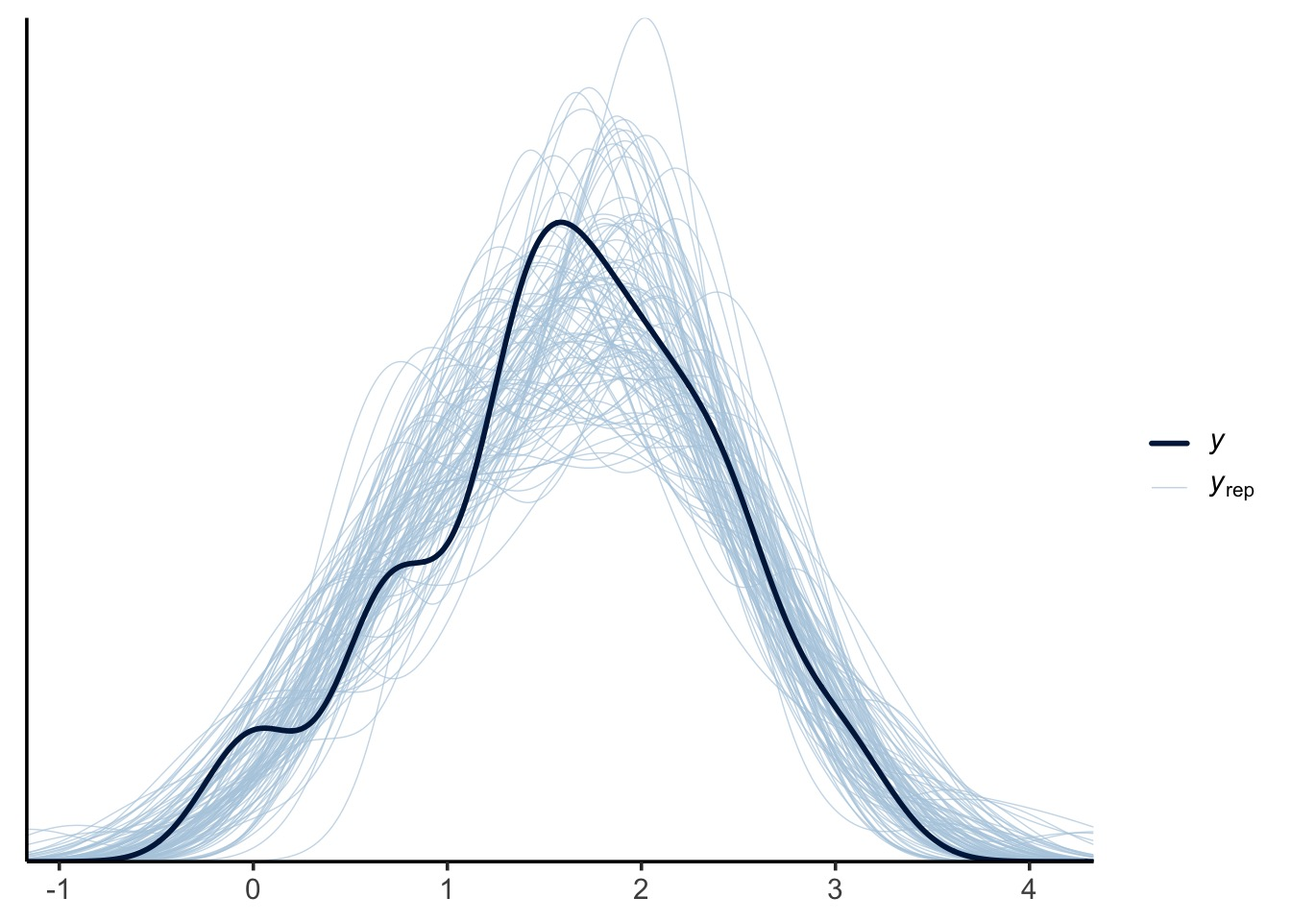
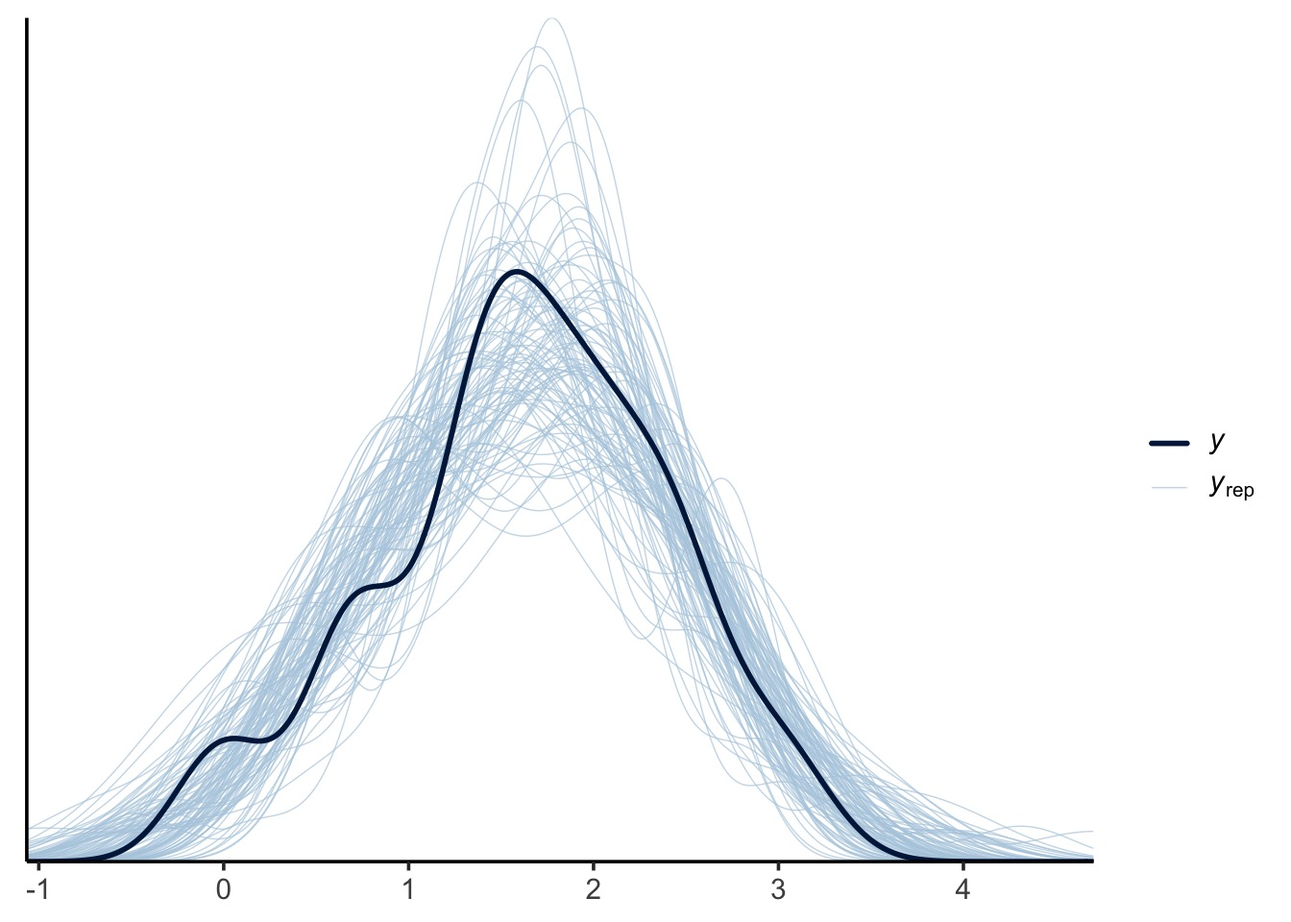
update rethinking alternatives with some inla priors

Changed region(s): [[0.0, 0.0938, 0.8438, 0.9688], [0.4062, 0.0625, 0.4375, 0.0938]]

diff --git a/lab/alt_to_rethinking.html b/lab/alt_to_rethinking.html
@@ -96,6 +96,7 @@ pre > code.sourceCode > span > a:first-child::before { text-decoration: underlin
   <li><a href="#comparing-inla-and-rethinking-fits" id="toc-comparing-inla-and-rethinking-fits" class="nav-link" data-scroll-target="#comparing-inla-and-rethinking-fits">6.2 Comparing inla and rethinking fits</a></li>
   </ul></li>
   <li><a href="#tmbstan" id="toc-tmbstan" class="nav-link" data-scroll-target="#tmbstan">7. tmbstan</a></li>
+  <li><a href="#thanks" id="toc-thanks" class="nav-link" data-scroll-target="#thanks">Thanks!</a></li>
   </ul>
 </nav>
 </div>
@@ -243,13 +244,13 @@ pre > code.sourceCode > span > a:first-child::before { text-decoration: underlin
 <span id="cb8-2"><a href="#cb8-2" aria-hidden="true" tabindex="-1"></a>                        <span class="at">pars =</span> <span class="fu">c</span>(<span class="st">"a"</span>, <span class="st">"b"</span>, <span class="st">"Rho[2,1]"</span>, <span class="st">"sigma"</span>, <span class="st">"sigma_beach"</span>))</span>
 <span id="cb8-3"><a href="#cb8-3" aria-hidden="true" tabindex="-1"></a>rethink_coefs</span></code><button title="Copy to Clipboard" class="code-copy-button"><i class="bi"></i></button></pre></div>
 <div class="cell-output cell-output-stdout">
-<pre><code>                      mean         sd        5.5%      94.5%     rhat  ess_bulk
-a               1.84586597 0.16336447  1.58470225  2.1013168 1.014808 301.22237
-b              -0.53754385 0.11378226 -0.71007402 -0.3763989 1.015616 349.88723
-Rho[2,1]        0.01973319 0.41465703 -0.62702861  0.6897833 1.002462 476.65837
-sigma           0.36666623 0.05709385  0.28180081  0.4612161 1.002717 564.27630
-sigma_beach[1]  0.45191866 0.15151914  0.26101168  0.7128389 1.001198 452.71827
-sigma_beach[2]  0.23420553 0.14333865  0.03579547  0.4727332 1.044450  77.01396</code></pre>
+<pre><code>                      mean         sd        5.5%      94.5%     rhat ess_bulk
+a               1.85328132 0.16581035  1.59898895  2.1140389 1.004576 347.9711
+b              -0.52134358 0.10444569 -0.68694787 -0.3603289 1.000133 654.6056
+Rho[2,1]        0.02585529 0.45105629 -0.69813861  0.7740703 1.002170 440.2373
+sigma           0.36438927 0.05626415  0.28474234  0.4618096 1.000797 405.1865
+sigma_beach[1]  0.45831339 0.14240046  0.27002523  0.7226320 1.002689 686.5553
+sigma_beach[2]  0.23656693 0.13037749  0.05525915  0.4588028 1.004756 203.5294</code></pre>
 </div>
 </div>
 </section>
@@ -460,24 +461,24 @@ generated quantities {
 <div class="cell">
 <div class="sourceCode cell-code" id="cb22"><pre class="sourceCode r code-with-copy"><code class="sourceCode r"><span id="cb22-1"><a href="#cb22-1" aria-hidden="true" tabindex="-1"></a>rethink_coefs</span></code><button title="Copy to Clipboard" class="code-copy-button"><i class="bi"></i></button></pre></div>
 <div class="cell-output cell-output-stdout">
-<pre><code>                      mean         sd        5.5%      94.5%     rhat  ess_bulk
-a               1.84586597 0.16336447  1.58470225  2.1013168 1.014808 301.22237
-b              -0.53754385 0.11378226 -0.71007402 -0.3763989 1.015616 349.88723
-Rho[2,1]        0.01973319 0.41465703 -0.62702861  0.6897833 1.002462 476.65837
-sigma           0.36666623 0.05709385  0.28180081  0.4612161 1.002717 564.27630
-sigma_beach[1]  0.45191866 0.15151914  0.26101168  0.7128389 1.001198 452.71827
-sigma_beach[2]  0.23420553 0.14333865  0.03579547  0.4727332 1.044450  77.01396</code></pre>
+<pre><code>                      mean         sd        5.5%      94.5%     rhat ess_bulk
+a               1.85328132 0.16581035  1.59898895  2.1140389 1.004576 347.9711
+b              -0.52134358 0.10444569 -0.68694787 -0.3603289 1.000133 654.6056
+Rho[2,1]        0.02585529 0.45105629 -0.69813861  0.7740703 1.002170 440.2373
+sigma           0.36438927 0.05626415  0.28474234  0.4618096 1.000797 405.1865
+sigma_beach[1]  0.45831339 0.14240046  0.27002523  0.7226320 1.002689 686.5553
+sigma_beach[2]  0.23656693 0.13037749  0.05525915  0.4588028 1.004756 203.5294</code></pre>
 </div>
 <div class="sourceCode cell-code" id="cb24"><pre class="sourceCode r code-with-copy"><code class="sourceCode r"><span id="cb24-1"><a href="#cb24-1" aria-hidden="true" tabindex="-1"></a>rikz_stan<span class="sc">$</span><span class="fu">summary</span>(<span class="at">variables =</span> <span class="fu">c</span>(<span class="st">"a"</span>, <span class="st">"b"</span>, <span class="st">"sigma"</span>, <span class="st">"sigma_beach"</span>))</span></code><button title="Copy to Clipboard" class="code-copy-button"><i class="bi"></i></button></pre></div>
 <div class="cell-output cell-output-stdout">
 <pre><code># A tibble: 5 × 10
   variable      mean median     sd    mad      q5    q95  rhat ess_bulk ess_tail
   &lt;chr&gt;        &lt;dbl&gt;  &lt;dbl&gt;  &lt;dbl&gt;  &lt;dbl&gt;   &lt;dbl&gt;  &lt;dbl&gt; &lt;dbl&gt;    &lt;dbl&gt;    &lt;dbl&gt;
-1 a            1.84   1.84  0.189  0.165   1.53    2.14   1.01     486.     578.
-2 b           -0.523 -0.519 0.117  0.0973 -0.708  -0.339  1.00     804.     800.
-3 sigma        0.366  0.360 0.0569 0.0610  0.283   0.464  1.01     405.    1353.
-4 sigma_beac…  0.467  0.435 0.154  0.125   0.271   0.763  1.00     894.    1510.
-5 sigma_beac…  0.236  0.225 0.138  0.131   0.0383  0.479  1.01     180.     138.</code></pre>
+1 a            1.85   1.85  0.165  0.155   1.59    2.13   1.01     712.     889.
+2 b           -0.522 -0.522 0.110  0.0986 -0.704  -0.349  1.01    1035.    1101.
+3 sigma        0.366  0.359 0.0585 0.0578  0.282   0.473  1.00     933.    1242.
+4 sigma_beac…  0.455  0.431 0.146  0.128   0.267   0.728  1.00    1345.    1633.
+5 sigma_beac…  0.247  0.233 0.133  0.117   0.0536  0.488  1.00     441.     396.</code></pre>
 </div>
 </div>
 <p>Maybe some rounding error here and there, but, matches. (and it should, as I modified the stan code from the stan code generated by the rethinking model.)</p>
@@ -621,25 +622,25 @@ sigma_beach[2]  0.23420553 0.14333865  0.03579547  0.4727332 1.044450  77.01396<
 <div class="sourceCode cell-code" id="cb38"><pre class="sourceCode r code-with-copy"><code class="sourceCode r"><span id="cb38-1"><a href="#cb38-1" aria-hidden="true" tabindex="-1"></a><span class="co"># compare</span></span>
 <span id="cb38-2"><a href="#cb38-2" aria-hidden="true" tabindex="-1"></a>rethink_coefs</span></code><button title="Copy to Clipboard" class="code-copy-button"><i class="bi"></i></button></pre></div>
 <div class="cell-output cell-output-stdout">
-<pre><code>                      mean         sd        5.5%      94.5%     rhat  ess_bulk
-a               1.84586597 0.16336447  1.58470225  2.1013168 1.014808 301.22237
-b              -0.53754385 0.11378226 -0.71007402 -0.3763989 1.015616 349.88723
-Rho[2,1]        0.01973319 0.41465703 -0.62702861  0.6897833 1.002462 476.65837
-sigma           0.36666623 0.05709385  0.28180081  0.4612161 1.002717 564.27630
-sigma_beach[1]  0.45191866 0.15151914  0.26101168  0.7128389 1.001198 452.71827
-sigma_beach[2]  0.23420553 0.14333865  0.03579547  0.4727332 1.044450  77.01396</code></pre>
+<pre><code>                      mean         sd        5.5%      94.5%     rhat ess_bulk
+a               1.85328132 0.16581035  1.59898895  2.1140389 1.004576 347.9711
+b              -0.52134358 0.10444569 -0.68694787 -0.3603289 1.000133 654.6056
+Rho[2,1]        0.02585529 0.45105629 -0.69813861  0.7740703 1.002170 440.2373
+sigma           0.36438927 0.05626415  0.28474234  0.4618096 1.000797 405.1865
+sigma_beach[1]  0.45831339 0.14240046  0.27002523  0.7226320 1.002689 686.5553
+sigma_beach[2]  0.23656693 0.13037749  0.05525915  0.4588028 1.004756 203.5294</code></pre>
 </div>
 <div class="sourceCode cell-code" id="cb40"><pre class="sourceCode r code-with-copy"><code class="sourceCode r"><span id="cb40-1"><a href="#cb40-1" aria-hidden="true" tabindex="-1"></a><span class="fu">tidy</span>(rikz_brms)[,<span class="sc">-</span><span class="fu">c</span>(<span class="dv">1</span><span class="sc">:</span><span class="dv">2</span>)]</span></code><button title="Copy to Clipboard" class="code-copy-button"><i class="bi"></i></button></pre></div>
 <div class="cell-output cell-output-stdout">
 <pre><code># A tibble: 6 × 6
   group    term                 estimate std.error conf.low conf.high
   &lt;chr&gt;    &lt;chr&gt;                   &lt;dbl&gt;     &lt;dbl&gt;    &lt;dbl&gt;     &lt;dbl&gt;
-1 &lt;NA&gt;     (Intercept)            1.86      0.169    1.53       2.21 
-2 &lt;NA&gt;     NAP                   -0.523     0.105   -0.730     -0.293
-3 Beach_c  sd__(Intercept)        0.454     0.144    0.231      0.790
-4 Beach_c  sd__NAP                0.235     0.134    0.0175     0.533
-5 Beach_c  cor__(Intercept).NAP   0.0144    0.434   -0.777      0.823
-6 Residual sd__Observation        0.371     0.0595   0.273      0.499</code></pre>
+1 &lt;NA&gt;     (Intercept)            1.85      0.173    1.51       2.20 
+2 &lt;NA&gt;     NAP                   -0.524     0.118   -0.760     -0.277
+3 Beach_c  sd__(Intercept)        0.455     0.153    0.230      0.818
+4 Beach_c  sd__NAP                0.234     0.140    0.0133     0.549
+5 Beach_c  cor__(Intercept).NAP   0.0250    0.456   -0.842      0.877
+6 Residual sd__Observation        0.373     0.0629   0.273      0.517</code></pre>
 </div>
 </div>
 <p>Again, rounding error.</p>
@@ -698,8 +699,8 @@ sigma_beach[2]  0.23420553 0.14333865  0.03579547  0.4727332 1.044450  77.01396<
 </section>
 <section id="inla" class="level2">
 <h2 class="anchored" data-anchor-id="inla">6. inla</h2>
-<p><a href="https://www.r-inla.org/">inla</a> is a really interesting package that rose up to work with spatial and spatiotemporal data using laplacian approximation. The key insight of Laplacian approximation is that underlying each element of a model are latent gaussian variables. Think the random effects themselves. Once we have that at the core, there are algorithmic solutions that, while not always as precise as HMC, work very well and very fast for very complex models.</p>
-<p>inla has a lot of non-standard dependencies, so you’ll need to istall it from the inla repo.</p>
+<p><a href="https://www.r-inla.org/">inla</a> is a really interesting package that rose up to work with spatial and spatiotemporal data using laplacian approximation. The key insight of Laplacian approximation is that underlying each element of a model are latent gaussian variables. Think the random effects themselves. Once we have that at the core, there are algorithmic solutions that work very well and very fast for very complex models.</p>
+<p>inla has a lot of non-standard dependencies, so you’ll need to i.stall it from the inla repo.</p>
 <div class="cell">
 <div class="sourceCode cell-code" id="cb46"><pre class="sourceCode r code-with-copy"><code class="sourceCode r"><span id="cb46-1"><a href="#cb46-1" aria-hidden="true" tabindex="-1"></a><span class="fu">install.packages</span>(<span class="st">"INLA"</span>,</span>
 <span id="cb46-2"><a href="#cb46-2" aria-hidden="true" tabindex="-1"></a>                 <span class="at">repos=</span><span class="fu">c</span>(<span class="fu">getOption</span>(<span class="st">"repos"</span>),</span>
@@ -725,7 +726,7 @@ sigma_beach[2]  0.23420553 0.14333865  0.03579547  0.4727332 1.044450  77.01396<
 </ol>
 <p>here’s what that all looks like</p>
 <div class="cell">
-<div class="sourceCode cell-code" id="cb48"><pre class="sourceCode r code-with-copy"><code class="sourceCode r"><span id="cb48-1"><a href="#cb48-1" aria-hidden="true" tabindex="-1"></a>rikz_inla <span class="ot">&lt;-</span> <span class="fu">inla</span>(log_richness <span class="sc">~</span> NAP <span class="sc">+</span></span>
+<div class="sourceCode cell-code" id="cb48"><pre class="sourceCode r code-with-copy"><code class="sourceCode r"><span id="cb48-1"><a href="#cb48-1" aria-hidden="true" tabindex="-1"></a>rikz_inla_noprior <span class="ot">&lt;-</span> <span class="fu">inla</span>(log_richness <span class="sc">~</span> NAP <span class="sc">+</span></span>
 <span id="cb48-2"><a href="#cb48-2" aria-hidden="true" tabindex="-1"></a>                      </span>
 <span id="cb48-3"><a href="#cb48-3" aria-hidden="true" tabindex="-1"></a>                    <span class="fu">f</span>(Beach, </span>
 <span id="cb48-4"><a href="#cb48-4" aria-hidden="true" tabindex="-1"></a>                      <span class="at">model=</span><span class="st">"iid2d"</span>, </span>
@@ -738,52 +739,101 @@ sigma_beach[2]  0.23420553 0.14333865  0.03579547  0.4727332 1.044450  77.01396<
 </div>
 <section id="priors-in-inla" class="level3">
 <h3 class="anchored" data-anchor-id="priors-in-inla">6.1 Priors in inla</h3>
-<p>Priors in inla are a hair harder to implement. Each <code>f()</code> has a <code>hyper</code> argument where you can specify priors. For fixed effects, we need to wrap them in a <code>f()</code> function where <code>model = "linear"</code>. Right now…. they don’t seem to take hyperparameters? See <code>inla.models()$latent$linear$hyper</code> or <code>?inla.models</code></p>
-<p>Anyone have any advice on linear terms, I’d love to hear it!</p>
-<p>For the random effects, it’s a bit more straightforard. They take priors for their error terms - theta. But - it’s not a prior on a sd. It’s a prior in a precision, or <code>prec</code>, term. Precision = 1/variance. So, you’ll have to wrap your brain around it a bit more. And so do I, in order to translate, say, an exponential prior on a standard deviation to a precision or log precision. So I’m going to walk away until someone smarter weighs in.</p>
+<p>Priors in inla are a hair wilder to implement as you don’t implement all of the priors in one place. First, for the fixed effects, we can use <code>control.fixed</code> and specify a list of items. See <code>?control.fixed</code>. We can supply a list of means and precisions for each element. The intercept is supplied separatetely. In this case, for precision, we’d use <code>1/(2^2)</code> as our sd from previous priors is 2.</p>
+<div class="cell">
+<div class="sourceCode cell-code" id="cb49"><pre class="sourceCode r code-with-copy"><code class="sourceCode r"><span id="cb49-1"><a href="#cb49-1" aria-hidden="true" tabindex="-1"></a>inla_fixed_priors <span class="ot">&lt;-</span> <span class="fu">list</span>(</span>
+<span id="cb49-2"><a href="#cb49-2" aria-hidden="true" tabindex="-1"></a>  <span class="at">mean =</span> <span class="fu">list</span>(<span class="at">NAP =</span> <span class="dv">0</span>),</span>
+<span id="cb49-3"><a href="#cb49-3" aria-hidden="true" tabindex="-1"></a>  <span class="at">prec =</span> <span class="fu">list</span>(<span class="at">NAP =</span> <span class="dv">1</span><span class="sc">/</span>(<span class="dv">2</span><span class="sc">^</span><span class="dv">2</span>)),</span>
+<span id="cb49-4"><a href="#cb49-4" aria-hidden="true" tabindex="-1"></a>  <span class="at">mean.intercept =</span> <span class="dv">2</span>,</span>
+<span id="cb49-5"><a href="#cb49-5" aria-hidden="true" tabindex="-1"></a>  <span class="at">prec.intercept =</span> <span class="dv">1</span><span class="sc">/</span>(<span class="dv">2</span><span class="sc">^</span><span class="dv">2</span>)</span>
+<span id="cb49-6"><a href="#cb49-6" aria-hidden="true" tabindex="-1"></a>)</span></code><button title="Copy to Clipboard" class="code-copy-button"><i class="bi"></i></button></pre></div>
+</div>
+<p>For error terms, we use the <code>control.family</code> argument. Here we need to specify <code>hyper</code> as an element of the list, as that’s where our prior lives. We’re using precisions here instead of standard deviations. We can see what we’re working with using</p>
+<div class="cell">
+<div class="sourceCode cell-code" id="cb50"><pre class="sourceCode r code-with-copy"><code class="sourceCode r"><span id="cb50-1"><a href="#cb50-1" aria-hidden="true" tabindex="-1"></a><span class="fu">inla.models</span>()<span class="sc">$</span>likelihood<span class="sc">$</span>gaussian<span class="sc">$</span>hyper<span class="sc">$</span>theta1<span class="sc">$</span>short.name</span></code><button title="Copy to Clipboard" class="code-copy-button"><i class="bi"></i></button></pre></div>
+<div class="cell-output cell-output-stdout">
+<pre><code>[1] "prec"
+attr(,"inla.read.only")
+[1] FALSE</code></pre>
+</div>
+<div class="sourceCode cell-code" id="cb52"><pre class="sourceCode r code-with-copy"><code class="sourceCode r"><span id="cb52-1"><a href="#cb52-1" aria-hidden="true" tabindex="-1"></a><span class="fu">inla.models</span>()<span class="sc">$</span>likelihood<span class="sc">$</span>gaussian<span class="sc">$</span>hyper<span class="sc">$</span>theta1<span class="sc">$</span>prior</span></code><button title="Copy to Clipboard" class="code-copy-button"><i class="bi"></i></button></pre></div>
+<div class="cell-output cell-output-stdout">
+<pre><code>[1] "loggamma"
+attr(,"inla.read.only")
+[1] FALSE</code></pre>
+</div>
+<div class="sourceCode cell-code" id="cb54"><pre class="sourceCode r code-with-copy"><code class="sourceCode r"><span id="cb54-1"><a href="#cb54-1" aria-hidden="true" tabindex="-1"></a><span class="fu">inla.models</span>()<span class="sc">$</span>likelihood<span class="sc">$</span>gaussian<span class="sc">$</span>hyper<span class="sc">$</span>theta1<span class="sc">$</span>param</span></code><button title="Copy to Clipboard" class="code-copy-button"><i class="bi"></i></button></pre></div>
+<div class="cell-output cell-output-stdout">
+<pre><code>[1] 1e+00 5e-05
+attr(,"inla.read.only")
+[1] FALSE</code></pre>
+</div>
+</div>
+<p>For the random effects, we supply priors for their error terms - theta. For the moment, we can use the same prior.</p>
+<div class="cell">
+<div class="sourceCode cell-code" id="cb56"><pre class="sourceCode r code-with-copy"><code class="sourceCode r"><span id="cb56-1"><a href="#cb56-1" aria-hidden="true" tabindex="-1"></a>prec.prior <span class="ot">&lt;-</span> <span class="fu">list</span>(<span class="at">prec =</span> <span class="fu">list</span>(<span class="at">prior =</span> <span class="st">"loggamma"</span>, </span>
+<span id="cb56-2"><a href="#cb56-2" aria-hidden="true" tabindex="-1"></a>                               <span class="at">param =</span> <span class="fu">c</span>(<span class="fl">0.01</span>, <span class="fl">5e-05</span>)))</span></code><button title="Copy to Clipboard" class="code-copy-button"><i class="bi"></i></button></pre></div>
+</div>
+<p>For the moment, though, as I have no idea what I’m doing with priors for precision and wanting them to match up with the <code>dexp(2)</code>, I’m not going to set this. Smarter people than me can weight in on the corresponding inverse precision prior here….</p>
+<p>We can implement the priors in the model like so:</p>
+<div class="cell">
+<div class="sourceCode cell-code" id="cb57"><pre class="sourceCode r code-with-copy"><code class="sourceCode r"><span id="cb57-1"><a href="#cb57-1" aria-hidden="true" tabindex="-1"></a>rikz_inla <span class="ot">&lt;-</span> <span class="fu">inla</span>(log_richness <span class="sc">~</span> NAP <span class="sc">+</span></span>
+<span id="cb57-2"><a href="#cb57-2" aria-hidden="true" tabindex="-1"></a>                      </span>
+<span id="cb57-3"><a href="#cb57-3" aria-hidden="true" tabindex="-1"></a>                    <span class="fu">f</span>(Beach, </span>
+<span id="cb57-4"><a href="#cb57-4" aria-hidden="true" tabindex="-1"></a>                      <span class="at">model=</span><span class="st">"iid2d"</span>, </span>
+<span id="cb57-5"><a href="#cb57-5" aria-hidden="true" tabindex="-1"></a>                      <span class="at">n =</span> <span class="dv">2</span><span class="sc">*</span><span class="fu">max</span>(d<span class="sc">$</span>Beach))<span class="sc">+</span></span>
+<span id="cb57-6"><a href="#cb57-6" aria-hidden="true" tabindex="-1"></a>                      </span>
+<span id="cb57-7"><a href="#cb57-7" aria-hidden="true" tabindex="-1"></a>                    <span class="sc">+</span> <span class="fu">f</span>(Beach1, NAP, </span>
+<span id="cb57-8"><a href="#cb57-8" aria-hidden="true" tabindex="-1"></a>                        <span class="at">copy =</span> <span class="st">"Beach"</span>), </span>
+<span id="cb57-9"><a href="#cb57-9" aria-hidden="true" tabindex="-1"></a>                  </span>
+<span id="cb57-10"><a href="#cb57-10" aria-hidden="true" tabindex="-1"></a>                  <span class="at">control.fixed =</span> inla_fixed_priors,</span>
+<span id="cb57-11"><a href="#cb57-11" aria-hidden="true" tabindex="-1"></a>                    </span>
+<span id="cb57-12"><a href="#cb57-12" aria-hidden="true" tabindex="-1"></a>                  <span class="at">data =</span> d <span class="sc">|&gt;</span> <span class="fu">mutate</span>(<span class="at">Beach1 =</span> Beach <span class="sc">+</span> <span class="fu">max</span>(Beach)))</span></code><button title="Copy to Clipboard" class="code-copy-button"><i class="bi"></i></button></pre></div>
+</div>
 </section>
 <section id="comparing-inla-and-rethinking-fits" class="level3">
 <h3 class="anchored" data-anchor-id="comparing-inla-and-rethinking-fits">6.2 Comparing inla and rethinking fits</h3>
-<p>As you can see, I’m not deep in the inla world, so don’t have a lot of experience with the diagnostics we need. BUT - we can look compare fits. Even without priors for the moment.</p>
+<p>As you can see, I’m not deep in the inla world, so don’t have a lot of experience with the diagnostics we need. I really need to look at <a href="https://inlatools.netlify.app/">inlatools</a>.</p>
+<p>BUT - we can compare coefficients.</p>
 <p>First, run this function which will make better output.</p>
 <div class="cell">
-<div class="sourceCode cell-code" id="cb49"><pre class="sourceCode r code-with-copy"><code class="sourceCode r"><span id="cb49-1"><a href="#cb49-1" aria-hidden="true" tabindex="-1"></a>tidy.inla <span class="ot">&lt;-</span> <span class="cf">function</span>(x){</span>
-<span id="cb49-2"><a href="#cb49-2" aria-hidden="true" tabindex="-1"></a>  </span>
-<span id="cb49-3"><a href="#cb49-3" aria-hidden="true" tabindex="-1"></a>  <span class="co"># x = model_inla</span></span>
-<span id="cb49-4"><a href="#cb49-4" aria-hidden="true" tabindex="-1"></a>  term_names <span class="ot">&lt;-</span> <span class="fu">rownames</span>(x<span class="sc">$</span>summary.fixed)</span>
-<span id="cb49-5"><a href="#cb49-5" aria-hidden="true" tabindex="-1"></a>  re_term_names <span class="ot">&lt;-</span> <span class="fu">rownames</span>(x<span class="sc">$</span>summary.hyperpar)</span>
-<span id="cb49-6"><a href="#cb49-6" aria-hidden="true" tabindex="-1"></a>  </span>
-<span id="cb49-7"><a href="#cb49-7" aria-hidden="true" tabindex="-1"></a>  </span>
-<span id="cb49-8"><a href="#cb49-8" aria-hidden="true" tabindex="-1"></a>  tibble<span class="sc">::</span><span class="fu">as_tibble</span>(<span class="fu">bind_rows</span>(x<span class="sc">$</span>summary.fixed, x<span class="sc">$</span>summary.hyperpar)) <span class="sc">%&gt;%</span></span>
-<span id="cb49-9"><a href="#cb49-9" aria-hidden="true" tabindex="-1"></a>    dplyr<span class="sc">::</span><span class="fu">mutate</span>(<span class="at">terms =</span> <span class="fu">c</span>(term_names, re_term_names)) <span class="sc">%&gt;%</span></span>
-<span id="cb49-10"><a href="#cb49-10" aria-hidden="true" tabindex="-1"></a>    dplyr<span class="sc">::</span><span class="fu">select</span>(terms,</span>
-<span id="cb49-11"><a href="#cb49-11" aria-hidden="true" tabindex="-1"></a>                  dplyr<span class="sc">::</span><span class="fu">everything</span>())</span>
-<span id="cb49-12"><a href="#cb49-12" aria-hidden="true" tabindex="-1"></a>  </span>
-<span id="cb49-13"><a href="#cb49-13" aria-hidden="true" tabindex="-1"></a>}</span></code><button title="Copy to Clipboard" class="code-copy-button"><i class="bi"></i></button></pre></div>
+<div class="sourceCode cell-code" id="cb58"><pre class="sourceCode r code-with-copy"><code class="sourceCode r"><span id="cb58-1"><a href="#cb58-1" aria-hidden="true" tabindex="-1"></a>tidy.inla <span class="ot">&lt;-</span> <span class="cf">function</span>(x){</span>
+<span id="cb58-2"><a href="#cb58-2" aria-hidden="true" tabindex="-1"></a>  </span>
+<span id="cb58-3"><a href="#cb58-3" aria-hidden="true" tabindex="-1"></a>  <span class="co"># x = model_inla</span></span>
+<span id="cb58-4"><a href="#cb58-4" aria-hidden="true" tabindex="-1"></a>  term_names <span class="ot">&lt;-</span> <span class="fu">rownames</span>(x<span class="sc">$</span>summary.fixed)</span>
+<span id="cb58-5"><a href="#cb58-5" aria-hidden="true" tabindex="-1"></a>  re_term_names <span class="ot">&lt;-</span> <span class="fu">rownames</span>(x<span class="sc">$</span>summary.hyperpar)</span>
+<span id="cb58-6"><a href="#cb58-6" aria-hidden="true" tabindex="-1"></a>  </span>
+<span id="cb58-7"><a href="#cb58-7" aria-hidden="true" tabindex="-1"></a>  </span>
+<span id="cb58-8"><a href="#cb58-8" aria-hidden="true" tabindex="-1"></a>  tibble<span class="sc">::</span><span class="fu">as_tibble</span>(<span class="fu">bind_rows</span>(x<span class="sc">$</span>summary.fixed, x<span class="sc">$</span>summary.hyperpar)) <span class="sc">%&gt;%</span></span>
+<span id="cb58-9"><a href="#cb58-9" aria-hidden="true" tabindex="-1"></a>    dplyr<span class="sc">::</span><span class="fu">mutate</span>(<span class="at">terms =</span> <span class="fu">c</span>(term_names, re_term_names)) <span class="sc">%&gt;%</span></span>
+<span id="cb58-10"><a href="#cb58-10" aria-hidden="true" tabindex="-1"></a>    dplyr<span class="sc">::</span><span class="fu">select</span>(terms,</span>
+<span id="cb58-11"><a href="#cb58-11" aria-hidden="true" tabindex="-1"></a>                  dplyr<span class="sc">::</span><span class="fu">everything</span>())</span>
+<span id="cb58-12"><a href="#cb58-12" aria-hidden="true" tabindex="-1"></a>  </span>
+<span id="cb58-13"><a href="#cb58-13" aria-hidden="true" tabindex="-1"></a>}</span></code><button title="Copy to Clipboard" class="code-copy-button"><i class="bi"></i></button></pre></div>
 </div>
 <p>Then</p>
 <div class="cell">
-<div class="sourceCode cell-code" id="cb50"><pre class="sourceCode r code-with-copy"><code class="sourceCode r"><span id="cb50-1"><a href="#cb50-1" aria-hidden="true" tabindex="-1"></a>rethink_coefs</span></code><button title="Copy to Clipboard" class="code-copy-button"><i class="bi"></i></button></pre></div>
+<div class="sourceCode cell-code" id="cb59"><pre class="sourceCode r code-with-copy"><code class="sourceCode r"><span id="cb59-1"><a href="#cb59-1" aria-hidden="true" tabindex="-1"></a>rethink_coefs</span></code><button title="Copy to Clipboard" class="code-copy-button"><i class="bi"></i></button></pre></div>
 <div class="cell-output cell-output-stdout">
-<pre><code>                      mean         sd        5.5%      94.5%     rhat  ess_bulk
-a               1.84586597 0.16336447  1.58470225  2.1013168 1.014808 301.22237
-b              -0.53754385 0.11378226 -0.71007402 -0.3763989 1.015616 349.88723
-Rho[2,1]        0.01973319 0.41465703 -0.62702861  0.6897833 1.002462 476.65837
-sigma           0.36666623 0.05709385  0.28180081  0.4612161 1.002717 564.27630
-sigma_beach[1]  0.45191866 0.15151914  0.26101168  0.7128389 1.001198 452.71827
-sigma_beach[2]  0.23420553 0.14333865  0.03579547  0.4727332 1.044450  77.01396</code></pre>
+<pre><code>                      mean         sd        5.5%      94.5%     rhat ess_bulk
+a               1.85328132 0.16581035  1.59898895  2.1140389 1.004576 347.9711
+b              -0.52134358 0.10444569 -0.68694787 -0.3603289 1.000133 654.6056
+Rho[2,1]        0.02585529 0.45105629 -0.69813861  0.7740703 1.002170 440.2373
+sigma           0.36438927 0.05626415  0.28474234  0.4618096 1.000797 405.1865
+sigma_beach[1]  0.45831339 0.14240046  0.27002523  0.7226320 1.002689 686.5553
+sigma_beach[2]  0.23656693 0.13037749  0.05525915  0.4588028 1.004756 203.5294</code></pre>
 </div>
-<div class="sourceCode cell-code" id="cb52"><pre class="sourceCode r code-with-copy"><code class="sourceCode r"><span id="cb52-1"><a href="#cb52-1" aria-hidden="true" tabindex="-1"></a><span class="fu">tidy</span>(rikz_inla)</span></code><button title="Copy to Clipboard" class="code-copy-button"><i class="bi"></i></button></pre></div>
+<div class="sourceCode cell-code" id="cb61"><pre class="sourceCode r code-with-copy"><code class="sourceCode r"><span id="cb61-1"><a href="#cb61-1" aria-hidden="true" tabindex="-1"></a><span class="fu">tidy</span>(rikz_inla)</span></code><button title="Copy to Clipboard" class="code-copy-button"><i class="bi"></i></button></pre></div>
 <div class="cell-output cell-output-stdout">
 <pre><code># A tibble: 6 × 8
   terms         mean    sd `0.025quant` `0.5quant` `0.975quant`    mode      kld
   &lt;chr&gt;        &lt;dbl&gt; &lt;dbl&gt;        &lt;dbl&gt;      &lt;dbl&gt;        &lt;dbl&gt;   &lt;dbl&gt;    &lt;dbl&gt;
-1 (Intercep…  1.87   0.181        1.51      1.87          2.24   1.87    1.68e-7
-2 NAP        -0.527  0.153       -0.831    -0.526        -0.223 -0.526   1.46e-7
-3 Precision… 10.5    2.77         5.98     10.2          16.8    9.62   NA      
-4 Precision…  4.93   2.23         1.88      4.51         10.5    3.75   NA      
-5 Precision…  7.32   3.35         2.78      6.67         15.7    5.52   NA      
-6 Rho1:2 fo… -0.0493 0.303       -0.616    -0.0521        0.533 -0.0525 NA      </code></pre>
+1 (Intercep…  1.88   0.180        1.52      1.88          2.23   1.88    1.67e-7
+2 NAP        -0.524  0.152       -0.826    -0.524        -0.221 -0.524   1.47e-7
+3 Precision… 10.5    2.77         5.99     10.2          16.8    9.61   NA      
+4 Precision…  4.94   2.23         1.88      4.51         10.5    3.76   NA      
+5 Precision…  7.33   3.34         2.78      6.68         15.7    5.54   NA      
+6 Rho1:2 fo… -0.0482 0.302       -0.615    -0.0505        0.532 -0.0488 NA      </code></pre>
 </div>
 </div>
 <p>Slope and NAP not far off. To understand other terms, you can calculate sqrt(1/prec) to compare back.</p>
@@ -795,67 +845,71 @@ sigma_beach[2]  0.23420553 0.14333865  0.03579547  0.4727332 1.044450  77.01396<
 <p>What’s great about this is that at the same time, Ben Bolker has been working priors into <code>glmmTMB</code> for purposes of stability. We can put the two together, and then create a model that will run in stan using glmmTMB, if you so desire.</p>
 <p>The prior system is not well documented yet, and doesn’t seem to have an exponential? Also, instead of sd, we use <code>theta</code>. Here, let’s create priors for both our slopes and intercepts and then for our sd terms. I’m currently unclear on how to set a prior for the correlation term.</p>
 <div class="cell">
-<div class="sourceCode cell-code" id="cb54"><pre class="sourceCode r code-with-copy"><code class="sourceCode r"><span id="cb54-1"><a href="#cb54-1" aria-hidden="true" tabindex="-1"></a><span class="co"># glmmTMB and tmbstan</span></span>
-<span id="cb54-2"><a href="#cb54-2" aria-hidden="true" tabindex="-1"></a><span class="fu">library</span>(glmmTMB)</span>
-<span id="cb54-3"><a href="#cb54-3" aria-hidden="true" tabindex="-1"></a><span class="fu">library</span>(tmbstan)</span>
-<span id="cb54-4"><a href="#cb54-4" aria-hidden="true" tabindex="-1"></a></span>
-<span id="cb54-5"><a href="#cb54-5" aria-hidden="true" tabindex="-1"></a>cprior <span class="ot">&lt;-</span> <span class="fu">data.frame</span>(<span class="at">prior =</span> <span class="fu">c</span>(<span class="st">"normal(2,2)"</span>, <span class="st">"normal(0,2)"</span>),</span>
-<span id="cb54-6"><a href="#cb54-6" aria-hidden="true" tabindex="-1"></a>                     <span class="at">class =</span> <span class="fu">rep</span>(<span class="st">"beta"</span>, <span class="dv">2</span>),</span>
-<span id="cb54-7"><a href="#cb54-7" aria-hidden="true" tabindex="-1"></a>                     <span class="at">coef =</span> <span class="fu">c</span>(<span class="st">"(Intercept)"</span>, <span class="st">""</span>))</span>
-<span id="cb54-8"><a href="#cb54-8" aria-hidden="true" tabindex="-1"></a></span>
-<span id="cb54-9"><a href="#cb54-9" aria-hidden="true" tabindex="-1"></a>sprior <span class="ot">&lt;-</span> <span class="fu">data.frame</span>(<span class="at">prior =</span> <span class="fu">c</span>(<span class="st">"cauchy(0, 2)"</span>),</span>
-<span id="cb54-10"><a href="#cb54-10" aria-hidden="true" tabindex="-1"></a>                     <span class="at">class =</span> <span class="fu">c</span>(<span class="st">"theta"</span>))</span></code><button title="Copy to Clipboard" class="code-copy-button"><i class="bi"></i></button></pre></div>
+<div class="sourceCode cell-code" id="cb63"><pre class="sourceCode r code-with-copy"><code class="sourceCode r"><span id="cb63-1"><a href="#cb63-1" aria-hidden="true" tabindex="-1"></a><span class="co"># glmmTMB and tmbstan</span></span>
+<span id="cb63-2"><a href="#cb63-2" aria-hidden="true" tabindex="-1"></a><span class="fu">library</span>(glmmTMB)</span>
+<span id="cb63-3"><a href="#cb63-3" aria-hidden="true" tabindex="-1"></a><span class="fu">library</span>(tmbstan)</span>
+<span id="cb63-4"><a href="#cb63-4" aria-hidden="true" tabindex="-1"></a></span>
+<span id="cb63-5"><a href="#cb63-5" aria-hidden="true" tabindex="-1"></a>cprior <span class="ot">&lt;-</span> <span class="fu">data.frame</span>(<span class="at">prior =</span> <span class="fu">c</span>(<span class="st">"normal(2,2)"</span>, <span class="st">"normal(0,2)"</span>),</span>
+<span id="cb63-6"><a href="#cb63-6" aria-hidden="true" tabindex="-1"></a>                     <span class="at">class =</span> <span class="fu">rep</span>(<span class="st">"beta"</span>, <span class="dv">2</span>),</span>
+<span id="cb63-7"><a href="#cb63-7" aria-hidden="true" tabindex="-1"></a>                     <span class="at">coef =</span> <span class="fu">c</span>(<span class="st">"(Intercept)"</span>, <span class="st">""</span>))</span>
+<span id="cb63-8"><a href="#cb63-8" aria-hidden="true" tabindex="-1"></a></span>
+<span id="cb63-9"><a href="#cb63-9" aria-hidden="true" tabindex="-1"></a>sprior <span class="ot">&lt;-</span> <span class="fu">data.frame</span>(<span class="at">prior =</span> <span class="fu">c</span>(<span class="st">"cauchy(0, 2)"</span>),</span>
+<span id="cb63-10"><a href="#cb63-10" aria-hidden="true" tabindex="-1"></a>                     <span class="at">class =</span> <span class="fu">c</span>(<span class="st">"theta"</span>))</span></code><button title="Copy to Clipboard" class="code-copy-button"><i class="bi"></i></button></pre></div>
 </div>
 <p>With this, we can fit a standard <a href="https://github.com/glmmTMB/glmmTMB">glmmTMB</a> model with a <code>prior</code> argument.</p>
 <div class="cell">
-<div class="sourceCode cell-code" id="cb55"><pre class="sourceCode r code-with-copy"><code class="sourceCode r"><span id="cb55-1"><a href="#cb55-1" aria-hidden="true" tabindex="-1"></a>rikz_glmmTMB <span class="ot">&lt;-</span> <span class="fu">glmmTMB</span>(log_richness <span class="sc">~</span> NAP <span class="sc">+</span></span>
-<span id="cb55-2"><a href="#cb55-2" aria-hidden="true" tabindex="-1"></a>                      (NAP <span class="sc">+</span> <span class="dv">1</span><span class="sc">|</span>Beach),</span>
-<span id="cb55-3"><a href="#cb55-3" aria-hidden="true" tabindex="-1"></a>                      <span class="at">prior =</span> cprior,</span>
-<span id="cb55-4"><a href="#cb55-4" aria-hidden="true" tabindex="-1"></a>                    <span class="at">data =</span> d)</span></code><button title="Copy to Clipboard" class="code-copy-button"><i class="bi"></i></button></pre></div>
+<div class="sourceCode cell-code" id="cb64"><pre class="sourceCode r code-with-copy"><code class="sourceCode r"><span id="cb64-1"><a href="#cb64-1" aria-hidden="true" tabindex="-1"></a>rikz_glmmTMB <span class="ot">&lt;-</span> <span class="fu">glmmTMB</span>(log_richness <span class="sc">~</span> NAP <span class="sc">+</span></span>
+<span id="cb64-2"><a href="#cb64-2" aria-hidden="true" tabindex="-1"></a>                      (NAP <span class="sc">+</span> <span class="dv">1</span><span class="sc">|</span>Beach),</span>
+<span id="cb64-3"><a href="#cb64-3" aria-hidden="true" tabindex="-1"></a>                      <span class="at">prior =</span> cprior,</span>
+<span id="cb64-4"><a href="#cb64-4" aria-hidden="true" tabindex="-1"></a>                    <span class="at">data =</span> d)</span></code><button title="Copy to Clipboard" class="code-copy-button"><i class="bi"></i></button></pre></div>
 </div>
-<p>Inside of that fit object, the <code>$obj</code> part is a <a href="https://github.com/kaskr/adcomp/wiki">Template Model Builder</a> object.. We can then feed this to <code>tmbstan()</code>.</p>
+<p>Inside of that fit object, the <code>$obj</code> part is a <a href="https://github.com/kaskr/adcomp/wiki">Template Model Builder</a> object. We can then feed this to <code>tmbstan()</code>.</p>
 <div class="cell">
-<div class="sourceCode cell-code" id="cb56"><pre class="sourceCode r code-with-copy"><code class="sourceCode r"><span id="cb56-1"><a href="#cb56-1" aria-hidden="true" tabindex="-1"></a>rikz_tmbstan <span class="ot">&lt;-</span> <span class="fu">tmbstan</span>(rikz_glmmTMB<span class="sc">$</span>obj,</span>
-<span id="cb56-2"><a href="#cb56-2" aria-hidden="true" tabindex="-1"></a>                        <span class="at">chains =</span> <span class="dv">3</span>,</span>
-<span id="cb56-3"><a href="#cb56-3" aria-hidden="true" tabindex="-1"></a>                        <span class="at">iter =</span> <span class="dv">2000</span>)</span></code><button title="Copy to Clipboard" class="code-copy-button"><i class="bi"></i></button></pre></div>
+<div class="sourceCode cell-code" id="cb65"><pre class="sourceCode r code-with-copy"><code class="sourceCode r"><span id="cb65-1"><a href="#cb65-1" aria-hidden="true" tabindex="-1"></a>rikz_tmbstan <span class="ot">&lt;-</span> <span class="fu">tmbstan</span>(rikz_glmmTMB<span class="sc">$</span>obj,</span>
+<span id="cb65-2"><a href="#cb65-2" aria-hidden="true" tabindex="-1"></a>                        <span class="at">chains =</span> <span class="dv">3</span>,</span>
+<span id="cb65-3"><a href="#cb65-3" aria-hidden="true" tabindex="-1"></a>                        <span class="at">iter =</span> <span class="dv">2000</span>)</span></code><button title="Copy to Clipboard" class="code-copy-button"><i class="bi"></i></button></pre></div>
 </div>
 <p>This takes a while, indicating to me that the code is not quite as optimized.</p>
 <p>There is a tidier here we can use to compare</p>
 <div class="cell">
-<div class="sourceCode cell-code" id="cb57"><pre class="sourceCode r code-with-copy"><code class="sourceCode r"><span id="cb57-1"><a href="#cb57-1" aria-hidden="true" tabindex="-1"></a>rethink_coefs</span></code><button title="Copy to Clipboard" class="code-copy-button"><i class="bi"></i></button></pre></div>
+<div class="sourceCode cell-code" id="cb66"><pre class="sourceCode r code-with-copy"><code class="sourceCode r"><span id="cb66-1"><a href="#cb66-1" aria-hidden="true" tabindex="-1"></a>rethink_coefs</span></code><button title="Copy to Clipboard" class="code-copy-button"><i class="bi"></i></button></pre></div>
 <div class="cell-output cell-output-stdout">
-<pre><code>                      mean         sd        5.5%      94.5%     rhat  ess_bulk
-a               1.84586597 0.16336447  1.58470225  2.1013168 1.014808 301.22237
-b              -0.53754385 0.11378226 -0.71007402 -0.3763989 1.015616 349.88723
-Rho[2,1]        0.01973319 0.41465703 -0.62702861  0.6897833 1.002462 476.65837
-sigma           0.36666623 0.05709385  0.28180081  0.4612161 1.002717 564.27630
-sigma_beach[1]  0.45191866 0.15151914  0.26101168  0.7128389 1.001198 452.71827
-sigma_beach[2]  0.23420553 0.14333865  0.03579547  0.4727332 1.044450  77.01396</code></pre>
+<pre><code>                      mean         sd        5.5%      94.5%     rhat ess_bulk
+a               1.85328132 0.16581035  1.59898895  2.1140389 1.004576 347.9711
+b              -0.52134358 0.10444569 -0.68694787 -0.3603289 1.000133 654.6056
+Rho[2,1]        0.02585529 0.45105629 -0.69813861  0.7740703 1.002170 440.2373
+sigma           0.36438927 0.05626415  0.28474234  0.4618096 1.000797 405.1865
+sigma_beach[1]  0.45831339 0.14240046  0.27002523  0.7226320 1.002689 686.5553
+sigma_beach[2]  0.23656693 0.13037749  0.05525915  0.4588028 1.004756 203.5294</code></pre>
 </div>
-<div class="sourceCode cell-code" id="cb59"><pre class="sourceCode r code-with-copy"><code class="sourceCode r"><span id="cb59-1"><a href="#cb59-1" aria-hidden="true" tabindex="-1"></a><span class="fu">tidy</span>(rikz_tmbstan)[<span class="sc">-</span><span class="fu">c</span>(<span class="dv">3</span><span class="sc">:</span><span class="dv">21</span>),]</span></code><button title="Copy to Clipboard" class="code-copy-button"><i class="bi"></i></button></pre></div>
+<div class="sourceCode cell-code" id="cb68"><pre class="sourceCode r code-with-copy"><code class="sourceCode r"><span id="cb68-1"><a href="#cb68-1" aria-hidden="true" tabindex="-1"></a><span class="fu">tidy</span>(rikz_tmbstan)[<span class="sc">-</span><span class="fu">c</span>(<span class="dv">3</span><span class="sc">:</span><span class="dv">21</span>),]</span></code><button title="Copy to Clipboard" class="code-copy-button"><i class="bi"></i></button></pre></div>
 <div class="cell-output cell-output-stdout">
 <pre><code># A tibble: 5 × 3
   term     estimate std.error
   &lt;chr&gt;       &lt;dbl&gt;     &lt;dbl&gt;
-1 beta[1]     1.82     0.143 
-2 beta[2]    -0.538    0.0705
-3 theta[1]   -0.936    0.322 
-4 theta[2]   -3.09     0.968 
-5 theta[3]  -14.8    664.    </code></pre>
+1 beta[1]     1.89     0.168 
+2 beta[2]    -0.438    0.0996
+3 theta[1]   -0.842    0.400 
+4 theta[2]   -3.57     0.960 
+5 theta[3]  -25.4    157.    </code></pre>
 </div>
 </div>
 <p>slopes look good. I need to have a think about the other coefficients, as a negative theta seems odd. But hopefully better documentation will come our way on doing something wild like this, and I’ll incorporate it here.</p>
 <p>More work eneded, as we can see that theta is not mixing well with this model version.</p>
 <div class="cell">
-<div class="sourceCode cell-code" id="cb61"><pre class="sourceCode r code-with-copy"><code class="sourceCode r"><span id="cb61-1"><a href="#cb61-1" aria-hidden="true" tabindex="-1"></a><span class="fu">traceplot</span>(rikz_tmbstan, <span class="at">pars =</span> <span class="fu">c</span>(<span class="st">"beta"</span>, <span class="st">"theta"</span>))</span></code><button title="Copy to Clipboard" class="code-copy-button"><i class="bi"></i></button></pre></div>
+<div class="sourceCode cell-code" id="cb70"><pre class="sourceCode r code-with-copy"><code class="sourceCode r"><span id="cb70-1"><a href="#cb70-1" aria-hidden="true" tabindex="-1"></a><span class="fu">traceplot</span>(rikz_tmbstan, <span class="at">pars =</span> <span class="fu">c</span>(<span class="st">"beta"</span>, <span class="st">"theta"</span>))</span></code><button title="Copy to Clipboard" class="code-copy-button"><i class="bi"></i></button></pre></div>
 <div class="cell-output-display">
 <div>
 <figure class="figure">
-<p><img src="alt_to_rethinking_files/figure-html/unnamed-chunk-22-1.jpeg" class="img-fluid figure-img" width="672"></p>
+<p><img src="alt_to_rethinking_files/figure-html/unnamed-chunk-26-1.jpeg" class="img-fluid figure-img" width="672"></p>
 </figure>
 </div>
 </div>
 </div>
+</section>
+<section id="thanks" class="level2">
+<h2 class="anchored" data-anchor-id="thanks">Thanks!</h2>
+<p>Thanks to Bob O’Hara, Ben Bolker, and others for feedback!</p>
 </section>
 
 </main>

diff --git a/schedule.html b/schedule.html
@@ -550,9 +550,8 @@ Missing Data, and Bayesian Meta-Analysis</a><br />
 <p>4/30/2024<br />
 <strong>Lecture:</strong> <a
 href="lab/missing_and_spatial_prediction.html">Working with advanced
-models</a>, <a href="lab/missing_and_spatial_prediction.html">Bayes
-Outside of Rethinking</a><br />
-<strong>Reading:</strong> brms, INLA, stan?</p>
+models</a>, <a href="lab/alt_to_rethinking.html">Bayes Outside of
+Rethinking</a></p>
 </div>
 <div id="week-15." class="section level3">
 <h3>Week 15.</h3>
